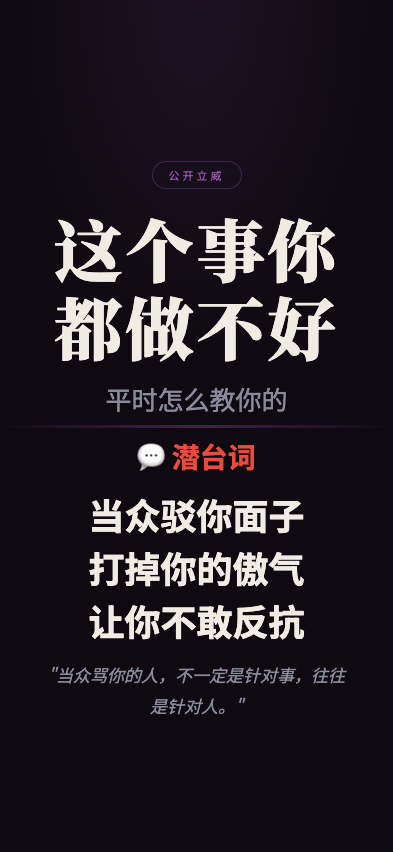
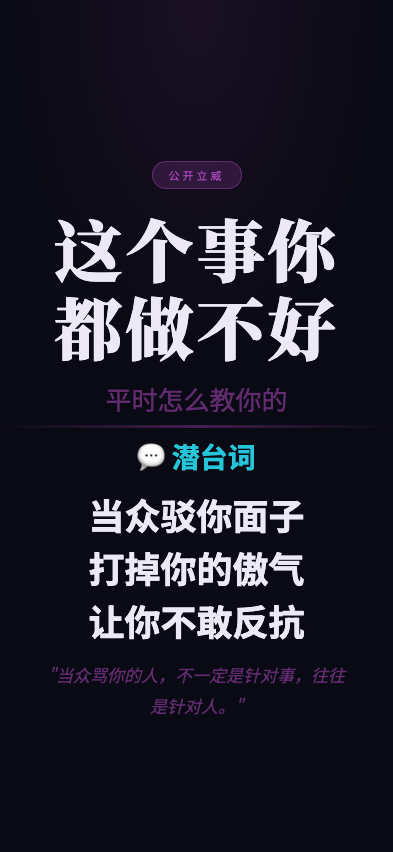
feat: 职场生存法则 screenshot - zhegeshinidouzuobuhao

diff --git a/wuliao-tools/tools/biz-speak/scenes/zhegeshinidouzuobuhao.html b/wuliao-tools/tools/biz-speak/scenes/zhegeshinidouzuobuhao.html
@@ -7,11 +7,14 @@
 <link href="https://fonts.googleapis.com/css2?family=Noto+Serif+SC:wght@400;700;900&family=Noto+Sans+SC:wght@300;400;700&display=swap" rel="stylesheet">
 <style>
   :root {
-    --bg: #0f0a12;
-    --text: #f0ece4;
-    --text-dim: #8a8a9a;
-    --gold: #9b59b6;
-    --red: #e74c3c;
+    --bg: #0a0a14;
+    --text: #ece8f5;
+    --text-dim: rgba(171,71,188,0.55);
+    --gold: #ab47bc;
+    --red: #26c6da;
+    --tag-bg: rgba(171,71,188,0.2);
+    --tag-border: rgba(171,71,188,0.4);
+    --tag-text: #ab47bc;
   }
   * { margin:0; padding:0; box-sizing:border-box; }
   html, body { width:100%; height:100%; overflow:hidden; }
@@ -24,11 +27,11 @@
   }
   body::before {
     content:''; position:absolute; top:0; left:0; right:0; height:45%;
-    background:radial-gradient(ellipse at 50% 0%, rgba(155,89,182,0.1) 0%, transparent 65%);
+    background:radial-gradient(ellipse at 50% 0%, rgba(171,71,188,0.1) 0%, transparent 65%);
     pointer-events:none; z-index:0;
   }
   .top { flex:1; display:flex; flex-direction:column; align-items:center; justify-content:flex-end; padding:4px 28px 8px; position:relative; z-index:1; }
-  .tag { font-size:11px; letter-spacing:3px; color:var(--gold); border:1px solid rgba(155,89,182,0.3); padding:5px 16px; border-radius:50px; margin-bottom:20px; }
+  .tag { font-size:11px; letter-spacing:3px; color:var(--tag-text); background:var(--tag-bg); border:1px solid var(--tag-border); padding:5px 16px; border-radius:50px; margin-bottom:20px; }
   .main-title { font-family:'Noto Serif SC'; font-size:68px; font-weight:900; text-align:center; line-height:1.15; letter-spacing:3px; min-width:0; overflow-wrap:break-word; max-width:92%; }
   .sub-title { font-size:26px; color:var(--text-dim); text-align:center; margin-top:14px; }
   .divider { width:100%; height:3px; background:linear-gradient(90deg,transparent,var(--gold),transparent); opacity:0.35; flex-shrink:0; position:relative; z-index:1; }
@@ -49,9 +52,7 @@
   <div class="bottom">
     <div class="truth-label">💬 潜台词</div>
     <div class="truth-lines">
-      <div class="truth-line">当众驳你面子</div>
-      <div class="truth-line">打掉你的傲气</div>
-      <div class="truth-line">让你不敢反抗</div>
+      <div class="truth-line">当众驳你面子</div><div class="truth-line">打掉你的傲气</div><div class="truth-line">让你不敢反抗</div>
     </div>
     <div class="quote">"当众骂你的人，不一定是针对事，往往是针对人。"</div>
   </div>
